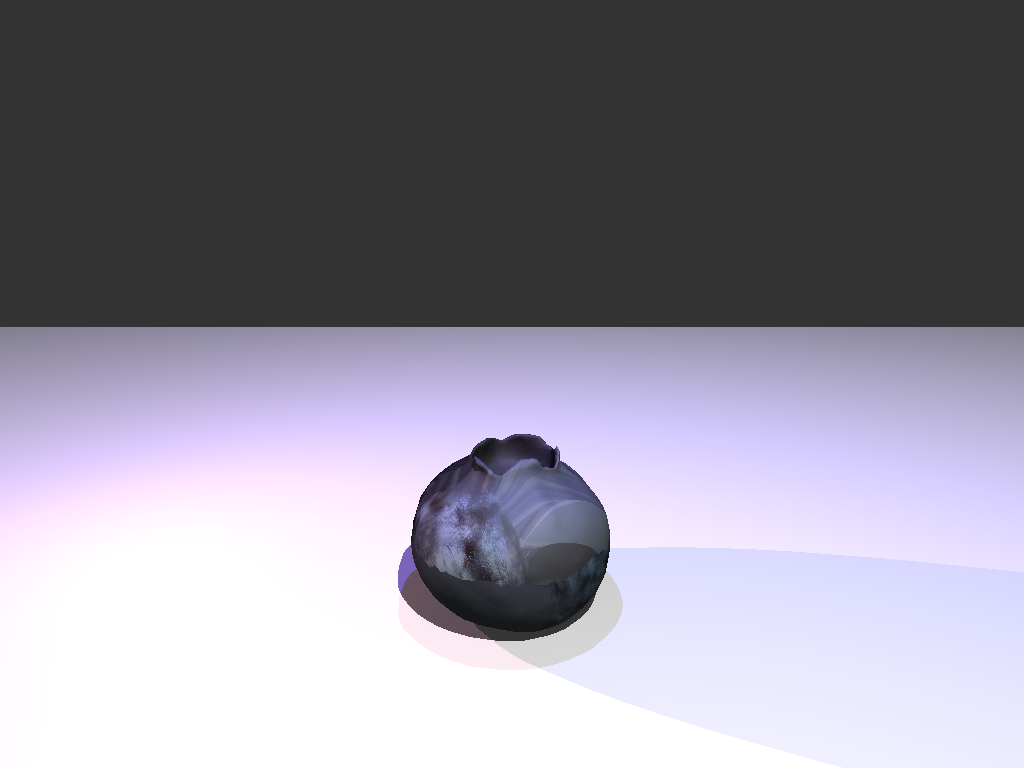
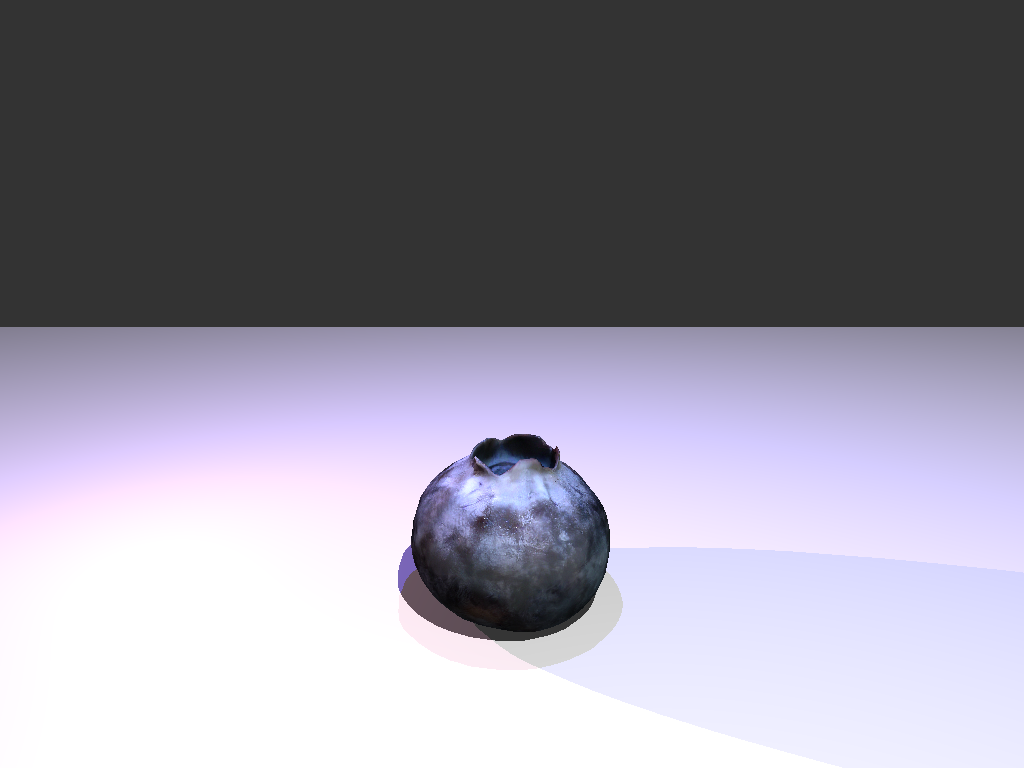
fixed sampling texture (flipped y)
its flipped in obj

Changed region(s): [[0.4062, 0.5625, 0.5938, 0.7812]]

diff --git a/src/texture.rs b/src/texture.rs
@@ -31,12 +31,12 @@ impl Texture {
     }
 
     pub fn sample_nearest(&self, uv: Vec2) -> Vec3 {
-        self.texel((uv.x * self.width as f32).floor() as i32, (uv.y * self.height as f32).floor() as i32)
+        self.texel((uv.x * self.width as f32).floor() as i32, ((1.0 - uv.y) * self.height as f32).floor() as i32)
     }
 
     pub fn sample_bilinear(&self, uv: Vec2) -> Vec3 {
         // from texel centers (x, y)
-        let (x, y) = (uv.x * self.width as f32 - 0.5, uv.y * self.height as f32 - 0.5);
+        let (x, y) = (uv.x * self.width as f32 - 0.5, (1.0 - uv.y) * self.height as f32 - 0.5);
         let (s, t) = (x - x.floor(), y - y.floor());
         let (i, j) = (x.floor() as i32, y.floor() as i32);
         let top = self.texel(i, j).lerp(self.texel(i+1, j), s);
